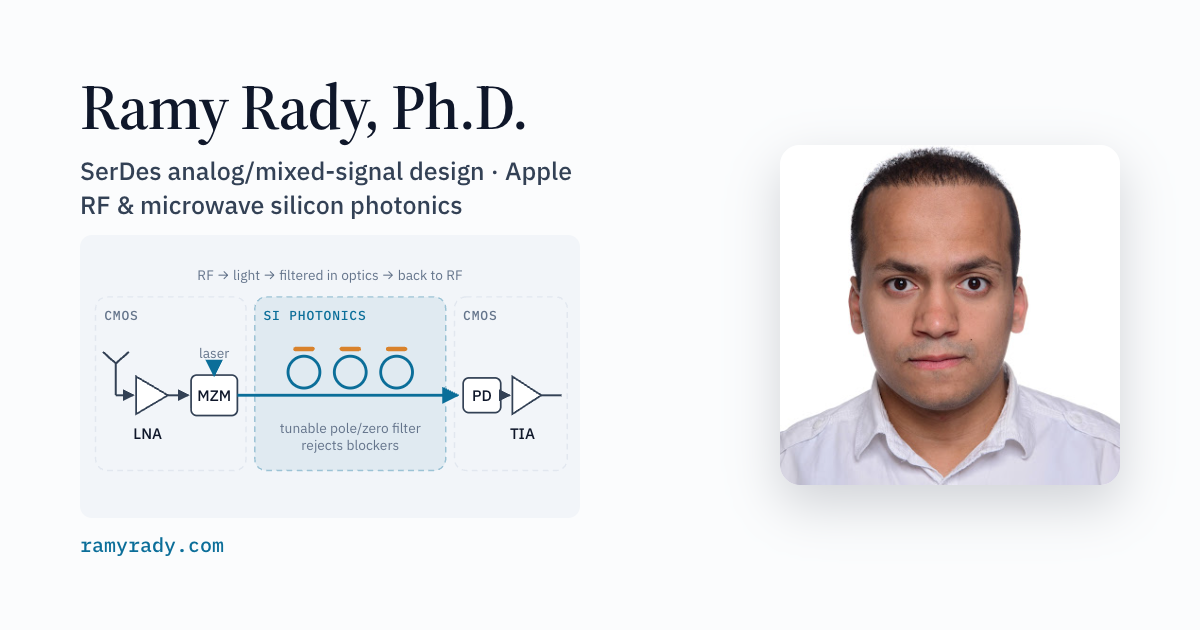
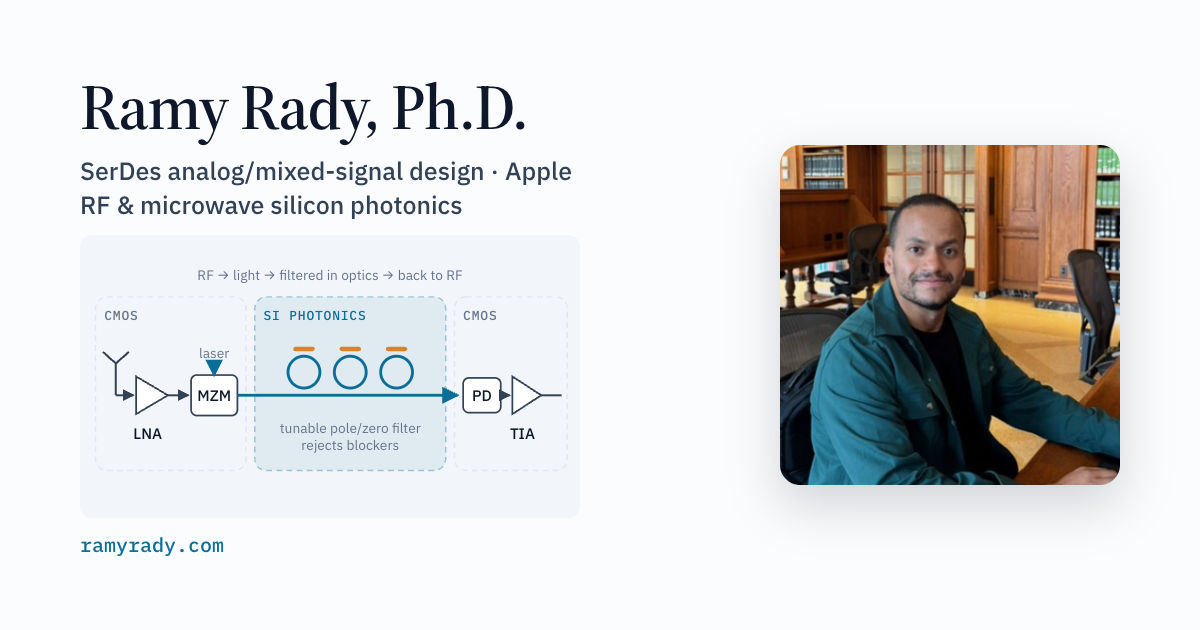
New profile photo, plus a live indicator and visit counter
Photo: replace the 360 px ID-style portrait with the library photo, cropped
square to head and shoulders at 720 px so it stays sharp on retina screens.
The link-preview card is regenerated from it.

Status: the footer now shows a pulsing green dot with "Site live · updated
<build date>", stamped when the pages are generated, and a visit count from
Abacus (a keyless counter API). If the counter is unreachable the line stays
hidden, and the dot animation is disabled under prefers-reduced-motion.

Changed region(s): [[0.6475, 0.2111, 0.9558, 0.7841]]

diff --git a/index.html b/index.html
@@ -112,7 +112,7 @@
                 </div>
             </div>
             <aside class="intro-card">
-                <img src="assets/profile-photo.jpg" alt="Portrait of Ramy Rady" width="360" height="359">
+                <img src="assets/profile-photo.jpg" alt="Ramy Rady" width="720" height="720">
                 <div class="intro-card-body">
                     <p class="where">Cupertino, California</p>
                     <ul class="link-list">
@@ -454,6 +454,10 @@
         <div class="wrap footer-inner">
             <p>© 2026 Ramy Rady</p>
             <p><a href="mailto:engramyrady@gmail.com">Email</a> · <a href="https://scholar.google.com/citations?user=sBTMlW4AAAAJ&hl=en" target="_blank" rel="noopener">Google Scholar</a> · <a href="https://www.linkedin.com/in/ramyrady/" target="_blank" rel="noopener">LinkedIn</a> · <a href="https://www.researchgate.net/profile/Ramy-Rady-2" target="_blank" rel="noopener">ResearchGate</a></p>
+        </div>
+        <div class="wrap site-status">
+            <p class="status-live"><span class="live-dot" aria-hidden="true"></span> Site live · updated 18 September 2026</p>
+            <p class="status-count" hidden><span class="count-value"></span> <span class="count-label">visits</span></p>
         </div>
     </footer>
     <script src="script.js?v=5"></script>

diff --git a/script.js b/script.js
@@ -30,6 +30,21 @@
         });
     }
 
+    // Visit counter (Abacus: a free, keyless counter API). If it is unreachable,
+    // the line stays hidden and nothing else is affected.
+    var countBox = document.querySelector('.status-count');
+    if (countBox) {
+        fetch('https://abacus.jasoncameron.dev/hit/ramyrady.com/site')
+            .then(function (r) { return r.ok ? r.json() : Promise.reject(r.status); })
+            .then(function (d) {
+                if (typeof d.value !== 'number') return;
+                countBox.querySelector('.count-value').textContent = d.value.toLocaleString();
+                countBox.querySelector('.count-label').textContent = d.value === 1 ? 'visit' : 'visits';
+                countBox.hidden = false;
+            })
+            .catch(function () { /* counter unavailable: leave it hidden */ });
+    }
+
     // Homepage terminal: the text is in the HTML; this retypes the commands for effect.
     var termBody = document.querySelector('.term-body');
     if (termBody && !window.matchMedia('(prefers-reduced-motion: reduce)').matches) {

diff --git a/styles.css b/styles.css
@@ -478,3 +478,24 @@ details summary { cursor: pointer; font-weight: 500; color: var(--ink); }
     .term-body.is-typing .term-out { visibility: visible; }
     .term-body.is-typing .term-cmd.active .term-typed::after { content: none; }
 }
+
+/* ---------- footer status ---------- */
+
+.site-status {
+    display: flex; flex-wrap: wrap; gap: 6px 18px;
+    padding-bottom: 24px; margin-top: -10px;
+    font: 400 13px/1.5 var(--mono); color: var(--muted);
+}
+.live-dot {
+    display: inline-block; width: 7px; height: 7px; border-radius: 50%;
+    background: #2fbf6b; margin-right: 6px; vertical-align: middle;
+    box-shadow: 0 0 0 0 rgba(47, 191, 107, 0.55);
+    animation: live-pulse 2.4s ease-out infinite;
+}
+@keyframes live-pulse {
+    0%   { box-shadow: 0 0 0 0 rgba(47, 191, 107, 0.5); }
+    70%  { box-shadow: 0 0 0 7px rgba(47, 191, 107, 0); }
+    100% { box-shadow: 0 0 0 0 rgba(47, 191, 107, 0); }
+}
+.count-value { color: var(--ink); font-weight: 500; }
+@media (prefers-reduced-motion: reduce) { .live-dot { animation: none; } }

diff --git a/publications.html b/publications.html
@@ -467,6 +467,10 @@
             <p>© 2026 Ramy Rady</p>
             <p><a href="mailto:engramyrady@gmail.com">Email</a> · <a href="https://scholar.google.com/citations?user=sBTMlW4AAAAJ&hl=en" target="_blank" rel="noopener">Google Scholar</a> · <a href="https://www.linkedin.com/in/ramyrady/" target="_blank" rel="noopener">LinkedIn</a> · <a href="https://www.researchgate.net/profile/Ramy-Rady-2" target="_blank" rel="noopener">ResearchGate</a></p>
         </div>
+        <div class="wrap site-status">
+            <p class="status-live"><span class="live-dot" aria-hidden="true"></span> Site live · updated 18 September 2026</p>
+            <p class="status-count" hidden><span class="count-value"></span> <span class="count-label">visits</span></p>
+        </div>
     </footer>
     <script src="script.js?v=5"></script>
 </body>

diff --git a/research.html b/research.html
@@ -265,6 +265,10 @@
             <p>© 2026 Ramy Rady</p>
             <p><a href="mailto:engramyrady@gmail.com">Email</a> · <a href="https://scholar.google.com/citations?user=sBTMlW4AAAAJ&hl=en" target="_blank" rel="noopener">Google Scholar</a> · <a href="https://www.linkedin.com/in/ramyrady/" target="_blank" rel="noopener">LinkedIn</a> · <a href="https://www.researchgate.net/profile/Ramy-Rady-2" target="_blank" rel="noopener">ResearchGate</a></p>
         </div>
+        <div class="wrap site-status">
+            <p class="status-live"><span class="live-dot" aria-hidden="true"></span> Site live · updated 18 September 2026</p>
+            <p class="status-count" hidden><span class="count-value"></span> <span class="count-label">visits</span></p>
+        </div>
     </footer>
     <script src="script.js?v=5"></script>
 </body>

diff --git a/resume.html b/resume.html
@@ -247,6 +247,10 @@
             <p>© 2026 Ramy Rady</p>
             <p><a href="mailto:engramyrady@gmail.com">Email</a> · <a href="https://scholar.google.com/citations?user=sBTMlW4AAAAJ&hl=en" target="_blank" rel="noopener">Google Scholar</a> · <a href="https://www.linkedin.com/in/ramyrady/" target="_blank" rel="noopener">LinkedIn</a> · <a href="https://www.researchgate.net/profile/Ramy-Rady-2" target="_blank" rel="noopener">ResearchGate</a></p>
         </div>
+        <div class="wrap site-status">
+            <p class="status-live"><span class="live-dot" aria-hidden="true"></span> Site live · updated 18 September 2026</p>
+            <p class="status-count" hidden><span class="count-value"></span> <span class="count-label">visits</span></p>
+        </div>
     </footer>
     <script src="script.js?v=5"></script>
 </body>

diff --git a/_build/build.py b/_build/build.py
@@ -7,6 +7,7 @@ redirect pages for retired URLs, and sitemap.xml into the repo root.
 """
 import html
 import json
+from datetime import date
 import re
 from pathlib import Path
 
@@ -111,10 +112,15 @@ def footer():
     links = " · ".join(
         f'<a href="{u}"{ext(u)}>{label}</a>' for u, _, label in LINKS if not u.startswith("assets")
     )
+    built = date.today().strftime("%d %B %Y")
     return f"""    <footer class="site-footer">
         <div class="wrap footer-inner">
             <p>© 2026 Ramy Rady</p>
             <p>{links}</p>
+        </div>
+        <div class="wrap site-status">
+            <p class="status-live"><span class="live-dot" aria-hidden="true"></span> Site live · updated {built}</p>
+            <p class="status-count" hidden><span class="count-value"></span> <span class="count-label">visits</span></p>
         </div>
     </footer>
     <script src="script.js?v={ASSET_V}"></script>
@@ -264,7 +270,7 @@ def build_index():
                 </div>
             </div>
             <aside class="intro-card">
-                <img src="{D.PERSON['photo']}" alt="Portrait of Ramy Rady" width="360" height="359">
+                <img src="{D.PERSON['photo']}" alt="Ramy Rady" width="720" height="720">
                 <div class="intro-card-body">
                     <p class="where">{D.PERSON['location']}</p>
                     <ul class="link-list">
